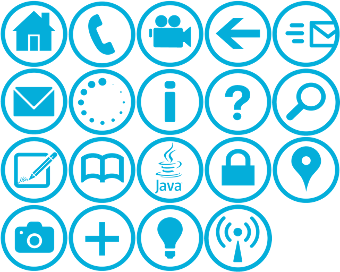
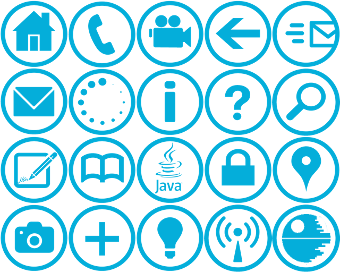
Changement icone + ajout tableau

Changed region(s): [[0.7941, 0.7353, 1.0, 1.0]]

diff --git a/app/views/ogame.scala.html b/app/views/ogame.scala.html
@@ -27,6 +27,7 @@
 
         <br>
         <h4>Leurs joueurs classé par flotte :</h4>
+        <br>
         <ol>
             <li ng-repeat="p in player" class="">
                 <span class="ogameLbl">{{p.name}}</span> ({{p.rank}})
@@ -56,6 +57,34 @@
                 </div>
             </li>
         </ol>
+        <br><br>
+
+        Désolé je suis en train de développer ce tableau, le détail ne s'ouvre pas encore dans le tableau
+
+        <table class="table table-striped table-bordered table-hover">
+            <thead>
+                <tr class="even">
+                    <th></th>
+                    <th>Joueur</th>
+                    <th>Classement Général</th>
+                    <th>Classement Flotte</th>
+                    <th>Points flotte</th>
+                    <th>Lien Infuza</th>
+                    <th>Autres Informations</th>
+                </tr>
+            </thead>
+            <tbody>
+                <tr ng-repeat="p in player" ng-class-odd="'odd'" ng-class-even="'even'">
+                    <td>{{$index}}</td>
+                    <td>{{p.name}}</td>
+                    <td>{{p.rank}}</td>
+                    <td>{{p.fleet.rank}}</td>
+                    <td>{{p.fleet.size}} k</td>
+                    <td><a tip="Infuza de {{p.name}}" href="http://www.infuza.com/fr/ogame.fr/Ursa/Players/{{p.infuza}}" class="tip">Son Infuza</a></td>
+                    <td><a tip="Détail de {{p.name}}" ng-click="switchDetail($index)">Voir Detail<span class="updown-link {{upDownIcon($index)}}" /></a></td>
+                </tr>
+            </tbody>
+        </table>
     </div>
 </article>
 

diff --git a/app/assets/css/main.less b/app/assets/css/main.less
@@ -1,30 +1,6 @@
 @import "constants.less";
 @import "ogame.less";
 
-/* Less Functions */
-.boxShadow(){
-    box-shadow: -1px 2px 5px 3px rgba(0, 0, 0, 0.7);
-}
-
-.navbar-icon(@image_url){
-    height : 68px;
-	width  : 68px;
-	display: inline-block;
-	background-repeat: no-repeat;
-    background-image:url(@image_url); // assets context
-}
-
-.thin_border(@color: @border_color) {
-    border-radius:@border_radius;
-    border-width: @border_width;
-    border-style: solid;
-    border-color: @color;
-}
-
-.pointer {
-  cursor: pointer;
-}
-
 /* div styles (for sticky footer) */
 body, html {
     height: 100%;
@@ -115,7 +91,7 @@ span.navicon {
     &.navicon-plus     {background-position:-68px -204px;}
     &.navicon-bulb     {background-position:-136px -204px;}
     &.navicon-wifi     {background-position:-204px -204px;}
-    &.navicon-minus    {background-position:-272px -204px;}
+    &.navicon-space    {background-position:-272px -204px;}
 }
 
 span.navlang {

diff --git a/app/assets/css/constants.less b/app/assets/css/constants.less
@@ -17,3 +17,28 @@
 @footer_margin_resize: -5%;
 @footer_bg_color: darken(@navbar_icon_color, 30%);
 @footer_text_color: @font_color;
+
+/* Less Functions */
+.boxShadow(){
+    box-shadow: -1px 2px 5px 3px rgba(0, 0, 0, 0.7);
+}
+
+.navbar-icon(@image_url){
+    height : 68px;
+	width  : 68px;
+	display: inline-block;
+	background-repeat: no-repeat;
+    background-image:url(@image_url); // assets context
+}
+
+.thin_border(@color: @border_color) {
+    border-radius:@border_radius;
+    border-width: @border_width;
+    border-style: solid;
+    border-color: @color;
+}
+
+/* Less Global Classes */
+.pointer {
+  cursor: pointer;
+}

diff --git a/app/assets/css/ogame.less b/app/assets/css/ogame.less
@@ -1,4 +1,38 @@
+@import "constants.less";
+
 span.ogameLbl {
   display: inline-block;
   width: 120px;
+}
+
+table {
+        .boxShadow();
+        background-color:@content_bg_color;
+}
+
+tr, td, th {
+    .thin_border(darken(@content_h_color,10%));
+}
+
+tr {
+
+    &.odd {
+        background-color:@content_bg_color;
+    }
+
+    &.even {
+        background-color:darken(@content_bg_color, 5%);
+    }
+}
+
+th {
+    padding: 7px;
+    color: lighten(@content_h_color, 10%);
+
+
+}
+
+td {
+    padding: 3px 10px;
+    color:@content_text_color;
 }

diff --git a/app/views/template.scala.html b/app/views/template.scala.html
@@ -37,7 +37,7 @@
                         <a href="/contact"><span class="tip navicon navicon-contact" title="Contact"></span></a>
                     </li>
                     @if(page == "ogame") {<li class="active">} else {<li>}
-                        <a href="/ogame"><span class="tip navicon navicon-bulb" title="Ogame"></span></a>
+                        <a href="/ogame"><span class="tip navicon navicon-space" title="Ogame"></span></a>
                     </li>
                 </ul>
                 <ul class="nav navbar-nav navbar-right">
